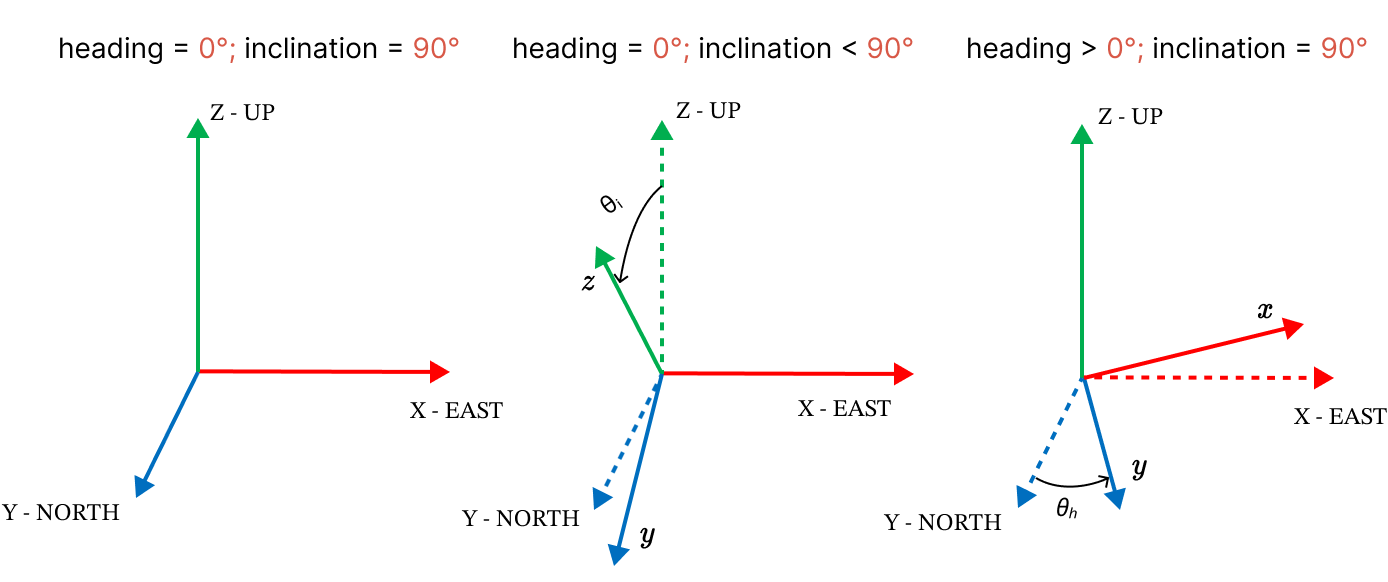
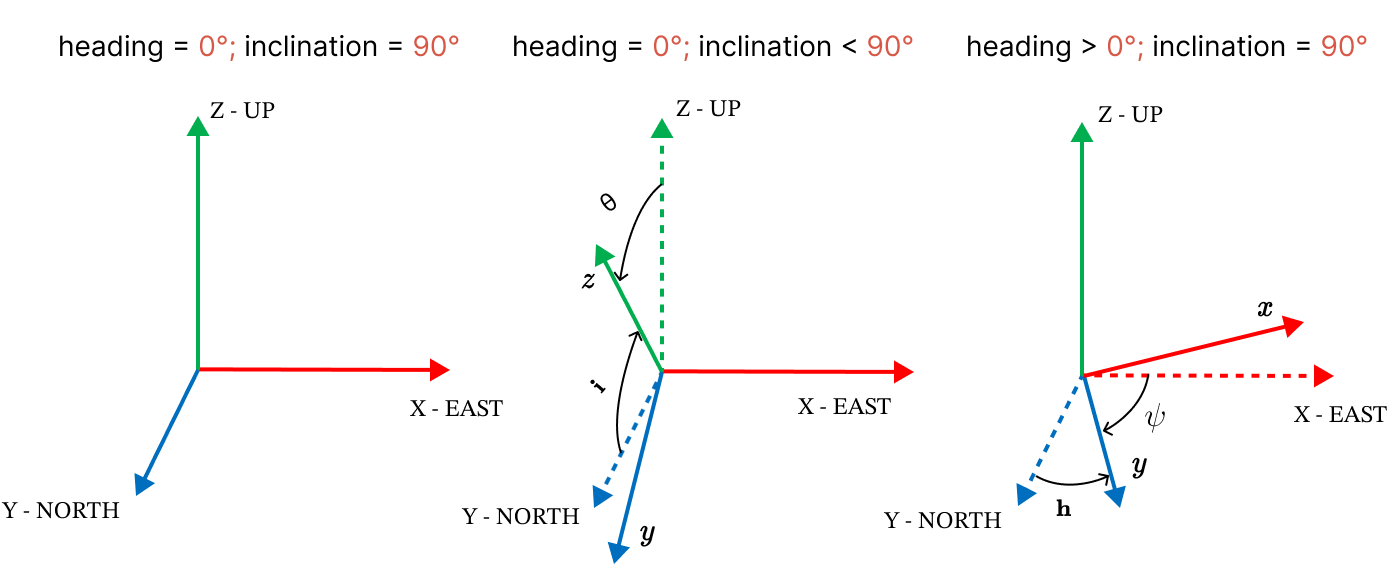
DOC: final additions to flight csys

diff --git a/docs/user/rocket/rocket_axes.rst b/docs/user/rocket/rocket_axes.rst
@@ -99,10 +99,47 @@ The following figure shows the rotational relationship between the
   :align: center
   :alt: Flight coordinate system
 
-In the figure, *θᵢ* is ``90° - inclination`` and *θₕ* is the heading of the 
-launch rail.
+In the figure $\bf{i}$** is the ``inclination`` and $\bf{h}$ is the
+``heading`` of the launch rail.
+
+The heading and inclination can be described in terms of Euler angles.
+The relation is given by:
+
+.. math::
+    \begin{aligned}
+        &\text{Precession:} \quad &\psi &= -\bf{h} \\
+        &\text{Nutation:} \quad &\theta &= \bf{i} - 90° \\
+   \end{aligned}
+
+A last rotation is defined by the ``angular_position`` of the rocket's rail buttons.
+This is a rotation around the rocket's centerline, and describes the last 
+Euler angle:
+
+.. math::
+    \begin{aligned}
+        &\text{Spin:} \quad &φ & \\
+    \end{aligned}
+
+If no rail buttons are present, the spin angle is set to **0°**.
 
 .. note::
    
-   If the lauch rail ``heading`` is set to **0°** and ``rail_inclination`` to **90°**,
+   With spin angle set to **0°**, if the
+   lauch rail ``heading`` is set to **0°** and rail ``inclination`` to **90°**,
    the **Body Axes Coordinate System** is aligned with the **Flight Coordinate System**.
+
+
+This is used to calculate the initial orientation of the rocket, which is 
+expressed in Euler parameters (quaternions). The Euler parameters are defined 
+using the 3-1-3 rotation sequence:
+
+.. math::
+
+   \begin{aligned}
+      e₀ &= \cos\left(\frac{φ}{2}\right) \cos\left(\frac{θ}{2}\right) \cos\left(\frac{ψ}{2}\right) - \sin\left(\frac{φ}{2}\right) \cos\left(\frac{θ}{2}\right) \sin\left(\frac{ψ}{2}\right) \\
+      e₁ &= \cos\left(\frac{φ}{2}\right) \cos\left(\frac{ψ}{2}\right) \sin\left(\frac{θ}{2}\right) + \sin\left(\frac{φ}{2}\right) \sin\left(\frac{θ}{2}\right) \sin\left(\frac{ψ}{2}\right) \\
+      e₂ &= \cos\left(\frac{φ}{2}\right) \sin\left(\frac{θ}{2}\right) \sin\left(\frac{ψ}{2}\right) - \sin\left(\frac{φ}{2}\right) \cos\left(\frac{ψ}{2}\right) \sin\left(\frac{θ}{2}\right) \\
+      e₃ &= \cos\left(\frac{φ}{2}\right) \cos\left(\frac{θ}{2}\right) \sin\left(\frac{ψ}{2}\right) + \cos\left(\frac{θ}{2}\right) \cos\left(\frac{ψ}{2}\right) \sin\left(\frac{φ}{2}\right) \\
+   \end{aligned}
+
+
